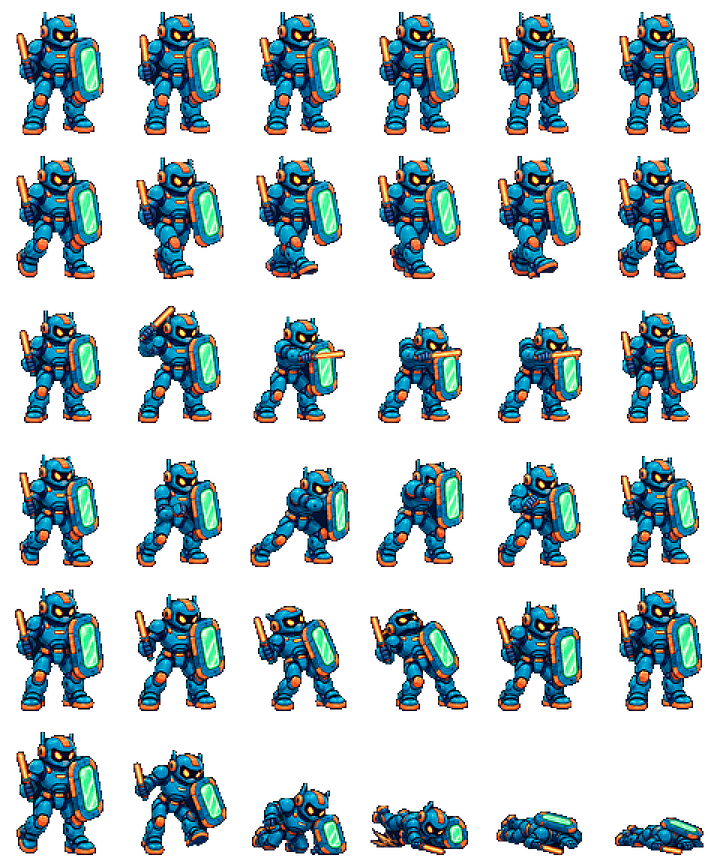
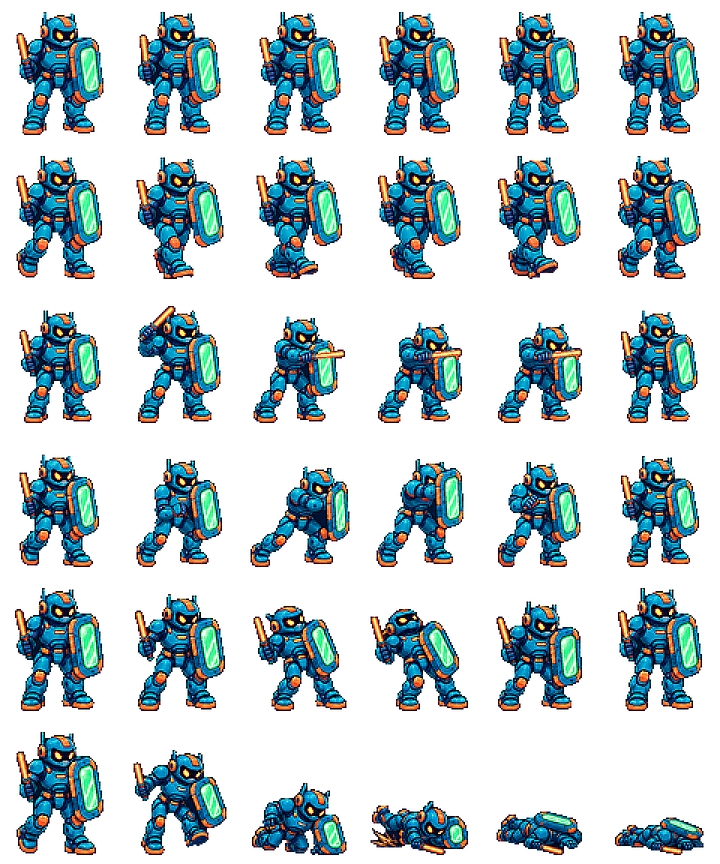
fix: stabilize stage panoramas and sharpen enemies

diff --git a/android/app/src/main/java/com/familyforce/neonstreets/GameView.java b/android/app/src/main/java/com/familyforce/neonstreets/GameView.java
@@ -4079,18 +4079,20 @@ public final class GameView extends SurfaceView implements SurfaceHolder.Callbac
         Bitmap scene = (gameplayScene || state == MENU || state == SELECT) && stageScene != null
                 ? stageScene : background;
         if (scene != null) {
-            float tileWidth = 640f;
-            float base = -(scroll * 0.34f) % tileWidth;
-            for (int i = -1; i < 3; i++) {
-                dest.set(base + i * tileWidth, 0, base + (i + 1) * tileWidth, 360);
-                canvas.save();
-                if ((i & 1) != 0 && gameplayScene && scene == stageScene) {
-                    float center = base + (i + 0.5f) * tileWidth;
-                    canvas.scale(-1f, 1f, center, 0f);
-                }
-                canvas.drawBitmap(scene, null, dest, paint);
-                canvas.restore();
+            if (scene == stageScene) {
+                // One continuous stage plate: gently pan inside a slightly
+                // oversized image. Never tile or mirror it; both caused hard
+                // seams and made scenery change when the player backtracked.
+                float panoramaWidth = 690f;
+                float panoramaHeight = panoramaWidth * scene.getHeight() / scene.getWidth();
+                float progress = gameplayScene ? stagePanProgress(scroll, currentStage()) : 0.5f;
+                float left = -(panoramaWidth - W) * progress;
+                float top = (H - panoramaHeight) * 0.5f;
+                dest.set(left, top, left + panoramaWidth, top + panoramaHeight);
+            } else {
+                dest.set(0f, 0f, W, H);
             }
+            canvas.drawBitmap(scene, null, dest, paint);
         } else {
             paint.setColor(Color.rgb(23, 78, 92));
             canvas.drawRect(0, 110, W, 242, paint);
@@ -4106,13 +4108,25 @@ public final class GameView extends SurfaceView implements SurfaceHolder.Callbac
         }
         paint.setColor(Color.argb(82, 4, 5, 25));
         canvas.drawRect(0, 0, W, H, paint);
-        paint.setColor(Color.rgb(31, 35, 58));
-        canvas.drawRect(0, 312, W, 360, paint);
-        paint.setColor(Color.argb(100, 108, 116, 148));
-        for (int i = -1; i < 14; i++) {
-            float x = i * 64 - (scroll * 0.72f) % 64;
-            canvas.drawRect(x, 335, x + 26, 338, paint);
+        if (scene != stageScene) {
+            paint.setColor(Color.rgb(31, 35, 58));
+            canvas.drawRect(0, 312, W, 360, paint);
+            paint.setColor(Color.argb(100, 108, 116, 148));
+            for (int i = -1; i < 14; i++) {
+                float x = i * 64 - (scroll * 0.72f) % 64;
+                canvas.drawRect(x, 335, x + 26, 338, paint);
+            }
         }
+    }
+
+    private float stagePanProgress(float scroll, int stage) {
+        int safeStage = clampInt(stage, 0, STAGE_NAMES.length - 1);
+        float start = safeStage == 0 ? 0f
+                : Math.max(0f, ZONE_TRIGGERS[STAGE_START_ZONE[safeStage]] - W * 0.35f);
+        float end = Math.min(WORLD_END - W,
+                ZONE_TRIGGERS[STAGE_END_ZONE[safeStage]] + ENCOUNTER_GATE_OFFSET);
+        if (end <= start + 1f) return 0.5f;
+        return clamp((scroll - start) / (end - start), 0f, 1f);
     }
 
     private void drawTitle(Canvas canvas) {
@@ -4165,7 +4179,7 @@ public final class GameView extends SurfaceView implements SurfaceHolder.Callbac
         float reveal = stateMotion(430);
         canvas.save();
         canvas.translate(-20f * (1f - reveal), 0f);
-        paint.setColor(Color.argb(220, 9, 19, 48));
+        paint.setColor(Color.argb(190, 9, 19, 48));
         roundRect(canvas, 28, 82, 318, 312, 14, paint);
         paint.setColor(Color.rgb(64, 87, 123));
         canvas.drawRect(53, 103, 57, 291, paint);
@@ -4182,7 +4196,7 @@ public final class GameView extends SurfaceView implements SurfaceHolder.Callbac
         canvas.save();
         canvas.translate(20f * (1f - reveal), 0f);
         int routeColor = MENU_ROUTE_COLORS[clampInt(menuChoice, 0, MENU_ROUTE_COLORS.length - 1)];
-        paint.setColor(Color.argb(224, 9, 19, 48));
+        paint.setColor(Color.argb(204, 9, 19, 48));
         roundRect(canvas, 339, 82, 612, 312, 16, paint);
         paint.setStyle(Paint.Style.STROKE);
         paint.setStrokeWidth(2f);
@@ -5502,29 +5516,24 @@ public final class GameView extends SurfaceView implements SurfaceHolder.Callbac
     private void menuCard(Canvas canvas, float left, float top, float right, float bottom,
                           String title, String subtitle, int accent, boolean selected) {
         if (selected) {
-            paint.setColor(Color.argb(205, 20, 34, 68));
-            roundRect(canvas, left + 8f, top + 3f, right - 8f, bottom - 3f, 8, paint);
-        }
-        if (selected) {
-            paint.setStyle(Paint.Style.STROKE);
-            paint.setStrokeWidth(3f);
             paint.setColor(accent);
-            roundRect(canvas, left, top, right, bottom, 12f, paint);
-            paint.setStyle(Paint.Style.FILL);
+            roundRect(canvas, left + 7f, top + 3f, right - 7f, bottom - 3f, 10f, paint);
+        } else {
+            paint.setColor(Color.argb(90, 121, 151, 180));
+            canvas.drawRect(left + 49f, bottom - 1f, right - 16f, bottom, paint);
         }
-        paint.setColor(accent);
-        canvas.drawCircle(left + 27, (top + bottom) * 0.5f, selected ? 12f : 9f, paint);
-        paint.setColor(Color.rgb(7, 16, 38));
-        canvas.drawCircle(left + 27, (top + bottom) * 0.5f, selected ? 5f : 4f, paint);
-        paint.setColor(accent);
-        canvas.drawRect(left + 39, (top + bottom) * 0.5f - 2f, right - 24,
-                (top + bottom) * 0.5f + 2f, paint);
-        text(canvas, title, left + 55, top + 16, 12, Color.WHITE, true, Paint.Align.LEFT);
-        text(canvas, subtitle, left + 55, top + 32, 7, Color.rgb(182, 211, 221), true, Paint.Align.LEFT);
-        paint.setStyle(Paint.Style.STROKE);
-        paint.setStrokeWidth(2f);
-        canvas.drawCircle(right - 18, (top + bottom) * 0.5f, 7f, paint);
-        paint.setStyle(Paint.Style.FILL);
+        int foreground = selected ? Color.rgb(7, 16, 38) : Color.WHITE;
+        int supporting = selected ? Color.argb(210, 7, 16, 38) : Color.rgb(182, 211, 221);
+        paint.setColor(selected ? Color.rgb(7, 16, 38) : accent);
+        canvas.drawCircle(left + 27, (top + bottom) * 0.5f, selected ? 10f : 6f, paint);
+        if (!selected) {
+            paint.setColor(Color.rgb(7, 16, 38));
+            canvas.drawCircle(left + 27, (top + bottom) * 0.5f, 2.5f, paint);
+        }
+        text(canvas, title, left + 48, top + 17, 12, foreground, true, Paint.Align.LEFT);
+        text(canvas, subtitle, left + 48, top + 32, 7, supporting, true, Paint.Align.LEFT);
+        text(canvas, selected ? "SELECT  ›" : "›", right - 18, top + 26,
+                selected ? 8 : 12, foreground, true, Paint.Align.RIGHT);
     }
 
     private void settingRow(Canvas canvas, float x, float y, String label, String value, boolean on) {

diff --git a/android/tools/generate_tv_optimized_assets.py b/android/tools/generate_tv_optimized_assets.py
@@ -57,6 +57,13 @@ def generate_variant(source_rel: str, output_rel: str, size: tuple[int, int], mo
             rgb = resized.convert("RGB").filter(
                 ImageFilter.UnsharpMask(radius=0.8, percent=115, threshold=3)
             )
+            if output_rel in (
+                "tv/enemies/striker_anim.png",
+                "tv/enemies/shield_guard_anim.png",
+            ):
+                rgb = rgb.filter(
+                    ImageFilter.UnsharpMask(radius=0.55, percent=185, threshold=1)
+                )
             rgb.putalpha(resized.getchannel("A"))
             resized = rgb
         else:

diff --git a/android/tools/test_runtime_smoothness_contract.py b/android/tools/test_runtime_smoothness_contract.py
@@ -55,6 +55,11 @@ assert 'drawStageTransition(canvas)' in text
 draw_enemy = method_body("drawEnemy")
 assert "STAGE_ENEMY_FILTERS[stageForZone(enemy.zone)]" in draw_enemy
 assert "new ColorMatrix" not in draw_enemy and "new ColorMatrixColorFilter" not in draw_enemy
+draw_backdrop = method_body("drawBackdrop")
+assert "stagePanProgress" in draw_backdrop
+assert "tileWidth" not in draw_backdrop
+assert "canvas.scale(-1f" not in draw_backdrop
+assert "new Bitmap[4]" in SOURCE.read_text(encoding="utf-8")
 
 expected = {
     "tv/backgrounds/street.png": (960, 536),

diff --git a/PROJECT_HISTORY_AR.md b/PROJECT_HISTORY_AR.md
@@ -178,6 +178,45 @@
 
 ## سجل الطلبات والتعديلات المشترك
 
+### 2026-08-22-34 — بانوراما المراحل وتوحيد وضوح الأعداء وإعادة ترتيب القوائم
+
+- المنفذ: Codex
+- طلب المستخدم: إصلاح قطع/تكرار الخلفيات وعدم تجانس الأرضية، تحسين وضوح
+  الأعداء الجدد، وإعادة بناء القوائم بشكل أجمل وأكثر ترتيبًا.
+- الحالة: مكتمل — بانتظار تسجيل تفاصيل GitHub Release.
+- نقطة البداية: `v0.33.0-alpha` / commit `4192a3a`.
+- التشخيص الأولي:
+  - الخلفية تُضغط إلى 640×360 ثم تتكرر وتنعكس كل 640px، فتظهر وصلة وتبدل عند
+    الرجوع/التقدم؛ كما تُرسم أرضية عامة فوق أرضية الصورة من y=312.
+  - Striker وShield Guard يستخدمان نسخة TV بحجم 75% مثل بقية الأعداء رغم أن
+    تفاصيلهما أدق وأكثر حساسية للتصغير.
+  - القوائم محسنة جزئيًا لكنها لا تزال كتلتين كثيفتين وتدفن الفن خلف ألواح كثيرة.
+- ما تم:
+  - إزالة تكرار/عكس الخلفية كل 640px؛ كل Stage الآن لوحة واحدة مستمرة مع pan
+    محدود 50px مربوط بتقدم المرحلة، لذلك لا توجد وصلة أو تبدل عند الرجوع.
+  - إزالة أرضية y=312 العامة وخطوطها من مشاهد المراحل؛ أرضية الرسم الأصلية تصل
+    إلى أسفل الشاشة بلا طبقة غريبة فوقها.
+  - إعادة معالجة نسخ TV لـStriker وShield Guard بشحذ ثانٍ مضبوط بعد التصغير؛
+    زادت وضوح الحواف والتفاصيل من دون زيادة أبعاد الأطلس أو ذاكرته المفكوكة.
+  - تنظيم القائمة: الخيار النشط أصبح سطحًا واحدًا قويًا، غير النشط أخف، وحُذفت
+    الخطوط والحدود المتنافسة مع النص مع إبقاء مؤشر واضح للريموت/يد التحكم.
+  - إضافة عقد اختبار يمنع عودة tile/mirror ويثبت وجود أربع خلفيات مستقلة.
+- الملفات المعدلة:
+  - `android/app/src/main/java/com/familyforce/neonstreets/GameView.java`
+  - `android/app/src/main/assets/tv/enemies/striker_anim.png`
+  - `android/app/src/main/assets/tv/enemies/shield_guard_anim.png`
+  - `android/tools/generate_tv_optimized_assets.py`
+  - `android/tools/test_runtime_smoothness_contract.py`
+  - `android/app/build.gradle`
+- الاختبارات:
+  - Debug + Lint — PASS.
+  - مراجعة contact sheet لوضوح الأعداء — PASS.
+  - Release/R8/Lint/signature/archive/assets/controller contracts — PASS.
+  - TV memory/smoothness — PASS؛ بقيت `30.78 MiB`.
+  - Runtime جهاز فعلي — SKIPPED؛ لا جهاز أو Emulator متصل.
+- Release: `v0.33.1-alpha`؛ تُسجل الروابط وSHA بعد الرفع.
+- التالي: اختبار backtracking في كل Stage والقوائم ووضوح العدوين على Xiaomi/Shield.
+
 ### 2026-08-22-33 — إعادة بناء بصرية كبيرة للمراحل والقوائم
 
 - المنفذ: Codex
